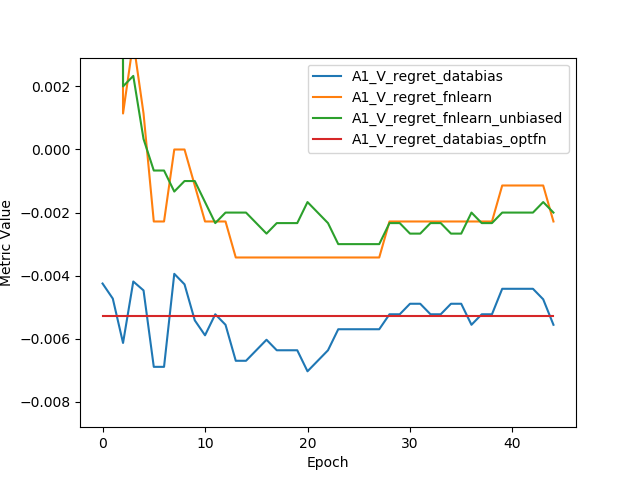
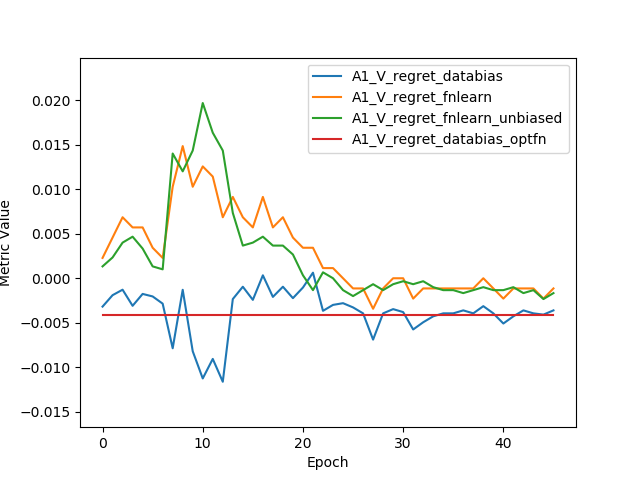
redid synth data

diff --git a/src/dataproc/SynthDatasetCreator.py b/src/dataproc/SynthDatasetCreator.py
@@ -7,7 +7,7 @@ from codebase.utils import switch
 
 class SynthDatasetCreator(object):
 
-    def __init__(self, seed, num_data, xdim, mu0, mu1, sd0, sd1, p0):
+    def __init__(self, seed, num_data, xdim, mu0, mu1, sd0, sd1, p0, outcome_scale):
         self.seed = seed 
         np.random.seed(self.seed)
         self.num_data = num_data
@@ -20,6 +20,7 @@ class SynthDatasetCreator(object):
         self.p1 = 1. - self.p0
         self.n0 = int(self.num_data * self.p0)
         self.n1 = int(self.num_data * self.p1)
+        self.outcome_scale = outcome_scale
 
     def generate_dataset(self):
         #make dataset 0
@@ -52,10 +53,10 @@ class SynthDatasetCreator(object):
     def calculate_bayes_opt(self, y0_prob, y1_prob, t_obs, t_obs_cf):
         pass
 
-    def choose_observed_treatment(self, x):
+    def choose_observed_treatment(self, x, a, z):
         pass
 
-    def generate_outcomes(self, x):
+    def generate_outcomes(self, x, a, z):
         pass
 
 class BasicSynthDatasetCreator(SynthDatasetCreator):
@@ -75,12 +76,12 @@ class BasicSynthDatasetCreator(SynthDatasetCreator):
         return x_cf, a_cf, z_cf
 
     def get_treatment_outcome_data(self, x, a, z):
-        y0, y1, y0_prob, y1_prob = self.generate_outcomes(x)
-        t_obs, t_obs_cf, t_obs_prob = self.choose_observed_treatment(x)
+        y0, y1, y0_prob, y1_prob = self.generate_outcomes(x, a, z)
+        t_obs, t_obs_cf, t_obs_prob = self.choose_observed_treatment(x, a, z)
         y_factual = np.multiply(y0, 1 - t_obs) + np.multiply(y1, t_obs)
         y_counterfactual = np.multiply(y0, t_obs) + np.multiply(y1, 1 - t_obs)
         bayes_opt_pred_f, bayes_opt_pred_cf = self.calculate_bayes_opt(y0_prob, y1_prob, t_obs, t_obs_cf)
-        return {'X': x, 'Y': np.concatenate([y0, y1], axis=1), 'A': a, \
+        return {'X': x, 'Y': np.concatenate([y0, y1], axis=1), 'A': a, 'y0': y0, 'y1': y1, \
                 'T_f': t_obs, 'T_cf': t_obs_cf, 'Y_f': y_factual, 'Y_cf': y_counterfactual, 'Z': z, 
                 'bayes_f': bayes_opt_pred_f, 'bayes_cf': bayes_opt_pred_cf, 'T_prob': t_obs_prob}
 
@@ -91,18 +92,80 @@ class BasicSynthDatasetCreator(SynthDatasetCreator):
         bayes_opt_pred_cf = switch(bayes_opt_pred_t0, bayes_opt_pred_t1, t_obs_cf)
         return bayes_opt_pred_f, bayes_opt_pred_cf
 
-    def choose_observed_treatment(self, x):
-        t_obs_prob = np.expand_dims(sigmoid(np.sum(x, axis=1) / 5.), 1) 
+    def choose_observed_treatment(self, x, a, z):
+        t_obs_prob = np.expand_dims(sigmoid(np.mean(x, axis=1) / self.outcome_scale), 1) 
         t_obs = np.random.binomial(1, t_obs_prob)
         t_obs_cf = 1 - t_obs 
         return t_obs, t_obs_cf, t_obs_prob
 
-    def generate_outcomes(self, x):
-        y0_prob = np.expand_dims(sigmoid(np.sum(x, axis=1) / 5.), 1)
-        y1_prob = np.expand_dims(sigmoid(-np.sum(x, axis=1) / 5.), 1)
+    def generate_outcomes(self, x, a, z):
+        y0_prob = np.expand_dims(sigmoid(np.mean(x, axis=1) / self.outcome_scale), 1)
+        y1_prob = np.expand_dims(sigmoid(-np.mean(x, axis=1) / self.outcome_scale), 1)
         y0 = np.random.binomial(1, y0_prob)
         y1 = np.random.binomial(1, y1_prob)
         return y0, y1, y0_prob, y1_prob 
 
 
+class OffsetOutcomeSynthDatasetCreator(BasicSynthDatasetCreator):
+
+    def __init__(self, seed, offset, **kwargs): 
+        self.offset = offset
+        super().__init__(seed, **kwargs)
+
+    def generate_outcomes(self, x, a, z):
+        mn = np.mean(x, axis=1)
+        logit_below_0 = mn / self.outcome_scale
+        logit_above_0 = (mn + self.offset) / self.outcome_scale
+        logits = switch(logit_below_0, logit_above_0, mn > 0)
+        y0_prob = np.expand_dims(sigmoid(logits), 1)
+        y1_prob = np.expand_dims(sigmoid(-logits), 1)
+        y0 = np.random.binomial(1, y0_prob)
+        y1 = np.random.binomial(1, y1_prob)
+        return y0, y1, y0_prob, y1_prob 
+
+class ConfoundedTreatmentBasicSynthDatasetCreator(BasicSynthDatasetCreator):
+
+    def __init__(self, seed, treatment_offset, **kwargs): 
+        self.treatment_offset = treatment_offset
+        super().__init__(seed, **kwargs)
+
+    def choose_observed_treatment(self, x, a, z):
+        # A = 0 treatment
+        a0_t_obs_prob = np.expand_dims(sigmoid(np.mean(x, axis=1) / self.outcome_scale), 1) 
+        a0_t_obs = np.random.binomial(1, a0_t_obs_prob)
+        a0_t_obs_cf = 1 - a0_t_obs 
+        # A = 1 treatment
+        a1_t_obs_prob = np.expand_dims(sigmoid(np.mean(x + self.treatment_offset, axis=1) / self.outcome_scale), 1) 
+        a1_t_obs = np.random.binomial(1, a1_t_obs_prob)
+        a1_t_obs_cf = 1 - a1_t_obs 
+        #combine outcomes by A
+        t_obs = switch(a0_t_obs, a1_t_obs, a)
+        t_obs_prob = switch(a0_t_obs_prob, a1_t_obs_prob, a)
+        t_obs_cf = switch(a0_t_obs_cf, a1_t_obs_cf, a)
+        return t_obs, t_obs_cf, t_obs_prob
+
+
+class HiddenOffsetOutcomeSynthDatasetCreator(BasicSynthDatasetCreator):
+
+    def __init__(self, seed, offset, **kwargs): 
+        self.offset = offset
+        super().__init__(seed, **kwargs)
+
+    def generate_outcomes(self, x, a, z):
+        #A = 0 outcomes
+        a0_y0_prob = np.expand_dims(sigmoid(np.mean(x, axis=1) / self.outcome_scale), 1)
+        a0_y1_prob = np.expand_dims(sigmoid(-np.mean(x, axis=1) / self.outcome_scale), 1)
+        a0_y0 = np.random.binomial(1, a0_y0_prob)
+        a0_y1 = np.random.binomial(1, a0_y1_prob)
+        #A = 1 outcomes
+        a1_y0_prob = np.expand_dims(sigmoid(np.mean(x + self.offset, axis=1) / self.outcome_scale), 1)
+        a1_y1_prob = np.expand_dims(sigmoid(-np.mean(x + self.offset, axis=1) / self.outcome_scale), 1)
+        a1_y0 = np.random.binomial(1, a1_y0_prob)
+        a1_y1 = np.random.binomial(1, a1_y1_prob)
+        #combine outcomes by A
+        y0 = switch(a0_y0, a1_y0, a)
+        y1 = switch(a0_y1, a1_y1, a)
+        y0_prob = switch(a0_y0_prob, a1_y0_prob, a)
+        y1_prob = switch(a0_y1_prob, a1_y1_prob, a)
+        return y0, y1, y0_prob, y1_prob 
 

diff --git a/src/get_basic_dataset_stats.py b/src/get_basic_dataset_stats.py
@@ -1,0 +1,28 @@
+import numpy as np
+import argparse
+import os
+from codebase.dataset import Dataset
+from codebase.utils import switch
+from codebase.metrics import subgroup
+from codebase.load_config import load_dirs_config, load_data_config
+
+parser = argparse.ArgumentParser(description='Run model')
+parser.add_argument('-dirs', '--dirconf', help='config file for dirs', default='madras-vector.json')
+parser.add_argument('-data', '--dataset', help='dataset name', default='')
+args = vars(parser.parse_args())
+
+# get params
+dirs = load_dirs_config(args) 
+data_kwargs = load_data_config(args, dirs, generate=True)
+datadir = dirs['data']
+npzfilename = data_kwargs['npzfile']
+
+dat = Dataset(args['dataset'], npzfilename) 
+tensor_names = ['y_f', 'y_cf', 't_f', 'y0', 'y1']
+for tnm in tensor_names:
+    res = np.mean(dat.tensors[tnm]['train'])
+    print('Avg {}: {:.3f}'.format(tnm, res))
+    res = subgroup(np.mean, dat.tensors['a']['train'], [dat.tensors[tnm]['train']]) 
+    print('Avg {} (A = 1): {:.3f}'.format(tnm, res))
+    res = subgroup(np.mean, 1 - dat.tensors['a']['train'], [dat.tensors[tnm]['train']]) 
+    print('Avg {} (A = 0): {:.3f}'.format(tnm, res))

diff --git a/src/codebase/dataset.py b/src/codebase/dataset.py
@@ -19,7 +19,7 @@ class Dataset(object):
             dat = np.load(self.npzfile)
             self.dat = dat
             phases = ['train', 'valid', 'test']
-            self.name_mapping = {'x': 'X', 'y_values': 'Y', 'a': 'A', 't_f': 'T_f', 't_cf': 'T_cf', \
+            self.name_mapping = {'x': 'X', 'y_values': 'Y', 'a': 'A', 't_f': 'T_f', 't_cf': 'T_cf', 'y0': 'y0','y1': 'y1',  \
                     'y_f': 'Y_f', 'y_cf': 'Y_cf', 'z': 'Z', 'bayes_f': 'bayes_f', 'bayes_cf': 'bayes_cf', 't_prob': 'T_prob', \
                             'x_unb': 'X_unb', 'y_values_unb': 'Y_unb', 'a_unb': 'A_unb', 't_f_unb': 'T_f_unb', 't_cf_unb': 'T_cf_unb', \
                             'y_f_unb': 'Y_f_unb', 'y_cf_unb': 'Y_cf_unb', 'z_unb': 'Z_unb', 'bayes_f_unb': 'bayes_f_unb', 'bayes_cf_unb': 'bayes_cf_unb', \

diff --git a/src/testing/track_decompositions.py b/src/testing/track_decompositions.py
@@ -38,7 +38,7 @@ def plot_pairs(x, inds, ind_names, settings, figname):
         plot_data = plot_data_1 - plot_data_0
         plt.plot(plot_data, label=i_name, **settings['plot'])
     plt.legend()
-    plotdat = np.concatenate([x[4:,i[1]] - x[4:,i[0]] for i in inds])
+    plotdat = np.concatenate([x[9:,i[1]] - x[9:,i[0]] for i in inds])
     plt.ylim([np.min(plotdat) - np.std(plotdat), np.max(plotdat) + np.std(plotdat)])
     plt.xlabel('Epoch')
     plt.ylabel('Metric Value - Diff (1 - 0)')

diff --git a/src/codebase/metrics.py b/src/codebase/metrics.py
@@ -67,8 +67,8 @@ def accuracy(Y, Ypred):
 def subgroup(fn, mask, args):# Y, Ypred=None, A=None):
     m = np.greater(mask, 0.5).flatten()
     flat_args = [x.flatten() if hasattr(x, 'flatten') else x for x in args]
-    print(m, flat_args)
-    print(m.shape, [x.shape for x in flat_args])
+    # print(m, flat_args)
+    # print(m.shape, [x.shape for x in flat_args])
     return fn(*[x[m] for x in flat_args])
     # if Ypred is None and A is None:
     #     return fn(Yf[m])

diff --git a/src/plot_decomposition.py b/src/plot_decomposition.py
@@ -26,5 +26,6 @@ track_groups = {**base_groups, **a0_groups, **a1_groups}
 track_pairs = {k: {m: ('A0_{}'.format(m), 'A1_{}'.format(m)) for m in base_groups[k]} for k in base_groups}
 settings = {'plot': {}}
 track_decompositions(expdir, figdir, track_groups, track_pairs, settings)
+print('Saved plots to {}'.format(figdir))
 
 

diff --git a/src/main.py b/src/main.py
@@ -24,7 +24,7 @@ args = vars(parser.parse_args())
 
 # get params
 dirs = load_dirs_config(args) 
-data_kwargs = load_data_config(args, dirs)
+data_kwargs = load_data_config(args, dirs, generate=False)
 model_kwargs = load_model_config(args, dirs)
 
 #get dataset
